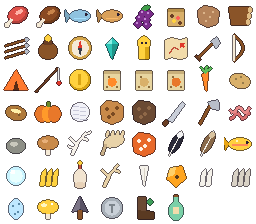
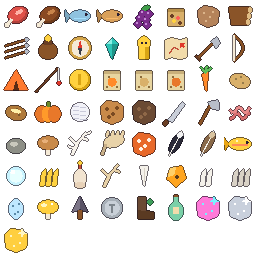
Colour variants (shiny, silver, golden) for every creature + journal completion
- Any creature can spawn as Shiny (1/20, hue-shifted with sparkles),
  Silver (1/60, metallic with a moving sheen) or Golden (1/150, gold
  sheen and a soft glow); a Lucky Rabbit's Foot doubles the odds.
- New variant shader; variant creatures drop a trophy: Shiny Tuft,
  Silver Pelt or Golden Pelt.
- Creature Journal now has four variant slots per creature (tinted
  thumbnails once seen, silhouettes until then), an overall completion
  percentage and bar covering variants and rare finds. First sighting
  of each variant pays a bonus. Saved with the game.
- Tests and a variant lineup screenshot.

Claude-Session: https://claude.ai/code/session_011U55ru6jWp7NoTiif2KdmA

diff --git a/tools/gen_art.py b/tools/gen_art.py
@@ -1370,6 +1370,12 @@ def make_items():
         cv.rect(14, 3, 18, 5, rgb("#8a5428"))
         cv.rect(13, 15, 19, 22, rgb("#f2dcab"))
 
+    def trophy(cv, col, shine):
+        cv.poly([(5, 10), (11, 5), (21, 6), (27, 10), (26, 24), (16, 28), (6, 24)], col)
+        for x, y in ((11, 12), (20, 19), (14, 22)):
+            cv.circle(x, y, 1.3, shine)
+        cv.poly([(22, 4), (23.5, 8), (27, 9), (23.5, 10), (22, 14), (20.5, 10), (17, 9), (20.5, 8)], shine)
+
     def rabbit_foot(cv):
         cv.ellipse(16, 18, 6, 9, rgb("#f2e4d0"))
         cv.ellipse(16, 25, 5, 3, rgb("#e8d2b8"))
@@ -1391,7 +1397,10 @@ def make_items():
                lambda c: claw(c, rgb("#ffd23f"), 3), rabbit_foot,
                lambda c: antler(c, rgb("#e8d2a8"), False), fang, amber,
                lambda c: claw(c, rgb("#f4f1ea"), 2), lambda c: claw(c, rgb("#d9d2c6"), 3),
-               egg, gold_mushroom, arrowhead, old_coin, boot, bottle):
+               egg, gold_mushroom, arrowhead, old_coin, boot, bottle,
+               lambda c: trophy(c, rgb("#ff7ad9"), rgb("#7af0ff")),
+               lambda c: trophy(c, rgb("#c9d0dc"), rgb("#ffffff")),
+               lambda c: trophy(c, rgb("#ffcf3f"), rgb("#fff6c2"))):
         icon(fn)
     atlas = Image.new("RGBA", (8 * 32, ((len(icons) + 7) // 8) * 32), (0, 0, 0, 0))
     for i, c in enumerate(icons):
